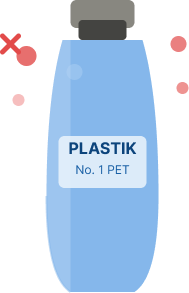
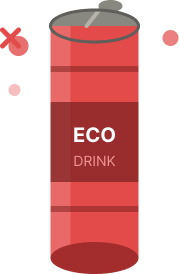
add tutorial in game

diff --git a/lib/game/overlays/tutorial_overlay.dart b/lib/game/overlays/tutorial_overlay.dart
@@ -1,0 +1,294 @@
+import 'package:flutter/material.dart';
+
+import '../../core/constants/app_colors.dart';
+import '../../core/constants/app_constants.dart';
+
+/// ═══════════════════════════════════════
+/// TUTORIAL OVERLAY — JumPedia
+/// ═══════════════════════════════════════
+/// Pop-up yang muncul sebelum game dimulai. Menjelaskan fungsi tiap item
+/// (buku, globe, sampah) dan memberi tahu bahwa setiap kelipatan skor
+/// tertentu pemain mendapat fun fact IPA.
+///
+/// Game di-pause selama tutorial tampil; tombol "Mulai!" memanggil [onStart].
+
+class TutorialOverlay extends StatelessWidget {
+  /// Dipanggil saat pemain menekan tombol "Mulai!".
+  final VoidCallback onStart;
+
+  const TutorialOverlay({super.key, required this.onStart});
+
+  @override
+  Widget build(BuildContext context) {
+    return Material(
+      color: Colors.black54,
+      child: Center(
+        child: SingleChildScrollView(
+          child: Container(
+            margin: const EdgeInsets.symmetric(horizontal: 24, vertical: 32),
+            padding: const EdgeInsets.all(22),
+            decoration: BoxDecoration(
+              color: AppColors.bgMid,
+              borderRadius: BorderRadius.circular(22),
+              border: Border.all(
+                color: AppColors.primary.withValues(alpha: 0.5),
+                width: 1.5,
+              ),
+              boxShadow: [
+                BoxShadow(
+                  color: AppColors.primary.withValues(alpha: 0.3),
+                  blurRadius: 28,
+                  spreadRadius: 4,
+                ),
+              ],
+            ),
+            child: Column(
+              mainAxisSize: MainAxisSize.min,
+              children: [
+                // ─── Header ──────────────────────
+                const Row(
+                  mainAxisAlignment: MainAxisAlignment.center,
+                  children: [
+                    Icon(Icons.lightbulb_rounded,
+                        color: AppColors.warn, size: 26),
+                    SizedBox(width: 8),
+                    Text(
+                      'How to Play',
+                      style: TextStyle(
+                        color: AppColors.textHi,
+                        fontSize: 22,
+                        fontWeight: FontWeight.w900,
+                      ),
+                    ),
+                  ],
+                ),
+                const SizedBox(height: 4),
+                const Text(
+                  'Bounce up, collect items, and learn!',
+                  style: TextStyle(color: AppColors.textLo, fontSize: 12.5),
+                ),
+                const SizedBox(height: 18),
+
+                // ─── Item: Buku & Pensil ─────────
+                const _TutorialItem(
+                  imagePaths: [
+                    'assets/collectibles/book.png',
+                    'assets/collectibles/pencil.png',
+                  ],
+                  title: 'Books & Pencils',
+                  desc: '+${AppConstants.bookPoints} points each. '
+                      'Collect them to boost your score!',
+                ),
+                const SizedBox(height: 12),
+
+                // ─── Item: Globe ─────────────────
+                const _TutorialItem(
+                  imagePaths: ['assets/collectibles/globe.png'],
+                  title: 'Globe',
+                  desc: 'Gives a shield or a speed boost for a few seconds. '
+                      'Grab it for power-ups!',
+                ),
+                const SizedBox(height: 12),
+
+                // ─── Item: Sampah / Obstacle (semua bentuk) ─────
+                const _TutorialItem(
+                  imagePaths: [
+                    'assets/images/obstacle/botol_plastik.png',
+                    'assets/images/obstacle/botol_kaleng.png',
+                    'assets/images/obstacle/kantong_plastik.png',
+                  ],
+                  title: 'Trash (Obstacles)',
+                  desc: 'Avoid all trash — each hit costs a heart '
+                      '(unless you have a shield).',
+                ),
+                const SizedBox(height: 12),
+
+                // ─── HP / Hearts ─────────────────
+                const _TutorialIconItem(
+                  icon: Icons.favorite_rounded,
+                  iconColor: AppColors.danger,
+                  title: '${AppConstants.initialHp} Hearts',
+                  desc: 'You start with ${AppConstants.initialHp} hearts. '
+                      'Lose them all and it\'s game over!',
+                ),
+                const SizedBox(height: 16),
+
+                // ─── Fun fact info banner ────────
+                Container(
+                  padding: const EdgeInsets.all(14),
+                  decoration: BoxDecoration(
+                    gradient: AppColors.accentCardGradient,
+                    borderRadius: BorderRadius.circular(14),
+                  ),
+                  child: const Row(
+                    children: [
+                      Icon(Icons.science_rounded,
+                          color: Colors.white, size: 28),
+                      SizedBox(width: 12),
+                      Expanded(
+                        child: Text.rich(
+                          TextSpan(
+                            style: TextStyle(
+                              color: Colors.white,
+                              fontSize: 13,
+                              height: 1.4,
+                            ),
+                            children: [
+                              TextSpan(text: 'Every '),
+                              TextSpan(
+                                text: '${AppConstants.funFactScoreInterval} '
+                                    'points',
+                                style: TextStyle(
+                                  fontWeight: FontWeight.w900,
+                                ),
+                              ),
+                              TextSpan(
+                                text: ' you unlock a fun science fact to '
+                                    'collect! 🔬',
+                              ),
+                            ],
+                          ),
+                        ),
+                      ),
+                    ],
+                  ),
+                ),
+                const SizedBox(height: 20),
+
+                // ─── Start button ────────────────
+                SizedBox(
+                  width: double.infinity,
+                  child: ElevatedButton(
+                    onPressed: onStart,
+                    style: ElevatedButton.styleFrom(
+                      backgroundColor: AppColors.primary,
+                      foregroundColor: Colors.white,
+                      padding: const EdgeInsets.symmetric(vertical: 14),
+                      shape: RoundedRectangleBorder(
+                        borderRadius: BorderRadius.circular(14),
+                      ),
+                    ),
+                    child: const Text(
+                      'Start! 🚀',
+                      style: TextStyle(
+                        fontSize: 16,
+                        fontWeight: FontWeight.bold,
+                      ),
+                    ),
+                  ),
+                ),
+              ],
+            ),
+          ),
+        ),
+      ),
+    );
+  }
+}
+
+/// Baris item tutorial: menampilkan SEMUA varian gambar + judul + deskripsi.
+class _TutorialItem extends StatelessWidget {
+  /// Satu atau lebih path gambar varian item (mis. semua jenis sampah).
+  final List<String> imagePaths;
+  final String title;
+  final String desc;
+
+  const _TutorialItem({
+    required this.imagePaths,
+    required this.title,
+    required this.desc,
+  });
+
+  @override
+  Widget build(BuildContext context) {
+    return Row(
+      crossAxisAlignment: CrossAxisAlignment.center,
+      children: [
+        // Deretan semua varian gambar.
+        Row(
+          mainAxisSize: MainAxisSize.min,
+          children: [
+            for (final path in imagePaths)
+              Padding(
+                padding: const EdgeInsets.only(right: 4),
+                child: Container(
+                  width: 40,
+                  height: 40,
+                  padding: const EdgeInsets.all(4),
+                  decoration: BoxDecoration(
+                    color: AppColors.scaffold,
+                    borderRadius: BorderRadius.circular(10),
+                  ),
+                  child: Image.asset(path, fit: BoxFit.contain),
+                ),
+              ),
+          ],
+        ),
+        const SizedBox(width: 10),
+        Expanded(child: _itemText(title, desc)),
+      ],
+    );
+  }
+}
+
+/// Baris item tutorial dengan ikon (untuk HP).
+class _TutorialIconItem extends StatelessWidget {
+  final IconData icon;
+  final Color iconColor;
+  final String title;
+  final String desc;
+
+  const _TutorialIconItem({
+    required this.icon,
+    required this.iconColor,
+    required this.title,
+    required this.desc,
+  });
+
+  @override
+  Widget build(BuildContext context) {
+    return Row(
+      crossAxisAlignment: CrossAxisAlignment.center,
+      children: [
+        Container(
+          width: 44,
+          height: 44,
+          alignment: Alignment.center,
+          decoration: BoxDecoration(
+            color: AppColors.scaffold,
+            borderRadius: BorderRadius.circular(10),
+          ),
+          child: Icon(icon, color: iconColor, size: 26),
+        ),
+        const SizedBox(width: 12),
+        Expanded(child: _itemText(title, desc)),
+      ],
+    );
+  }
+}
+
+/// Teks judul + deskripsi (dipakai bersama oleh kedua jenis item).
+Widget _itemText(String title, String desc) {
+  return Column(
+    crossAxisAlignment: CrossAxisAlignment.start,
+    children: [
+      Text(
+        title,
+        style: const TextStyle(
+          color: AppColors.textHi,
+          fontSize: 14.5,
+          fontWeight: FontWeight.w800,
+        ),
+      ),
+      const SizedBox(height: 2),
+      Text(
+        desc,
+        style: const TextStyle(
+          color: AppColors.textLo,
+          fontSize: 12,
+          height: 1.35,
+        ),
+      ),
+    ],
+  );
+}

diff --git a/lib/presentation/screens/game_screen.dart b/lib/presentation/screens/game_screen.dart
@@ -9,6 +9,7 @@ import '../../core/constants/app_colors.dart';
 import '../../core/utils/logger.dart';
 import '../../game/overlays/fun_fact_overlay.dart';
 import '../../game/overlays/hud_overlay.dart';
+import '../../game/overlays/tutorial_overlay.dart';
 import '../../game/world/game_world.dart';
 import '../../providers/hp_provider.dart';
 import '../../providers/score_provider.dart';
@@ -53,8 +54,19 @@ class _GameScreenState extends ConsumerState<GameScreen> {
       ref.read(hpProvider.notifier).resetHp();
       ref.read(shownFactsProvider.notifier).reset();
       ref.read(factCheckpointProvider.notifier).reset();
+      // Pause game selama tutorial ditampilkan (overlay 'tutorial' aktif
+      // sejak awal). Resume saat pemain menekan "Start!".
+      _gameWorld.pauseEngine();
       _focusNode.requestFocus();
     });
+  }
+
+  /// Tutup tutorial & mulai game.
+  void _dismissTutorial() {
+    _gameWorld.overlays.remove('tutorial');
+    if (!_gameWorld.paused) return;
+    _gameWorld.resumeEngine();
+    _focusNode.requestFocus();
   }
 
   @override
@@ -156,8 +168,10 @@ class _GameScreenState extends ConsumerState<GameScreen> {
                 'hud': (context, game) => const HudOverlay(),
                 'funFact': (context, game) =>
                     FunFactOverlay(game: game as GameWorld),
+                'tutorial': (context, game) =>
+                    TutorialOverlay(onStart: _dismissTutorial),
               },
-              initialActiveOverlays: const ['hud'],
+              initialActiveOverlays: const ['hud', 'tutorial'],
             ),
 
             // ─── Pause button (kanan atas) ──────────